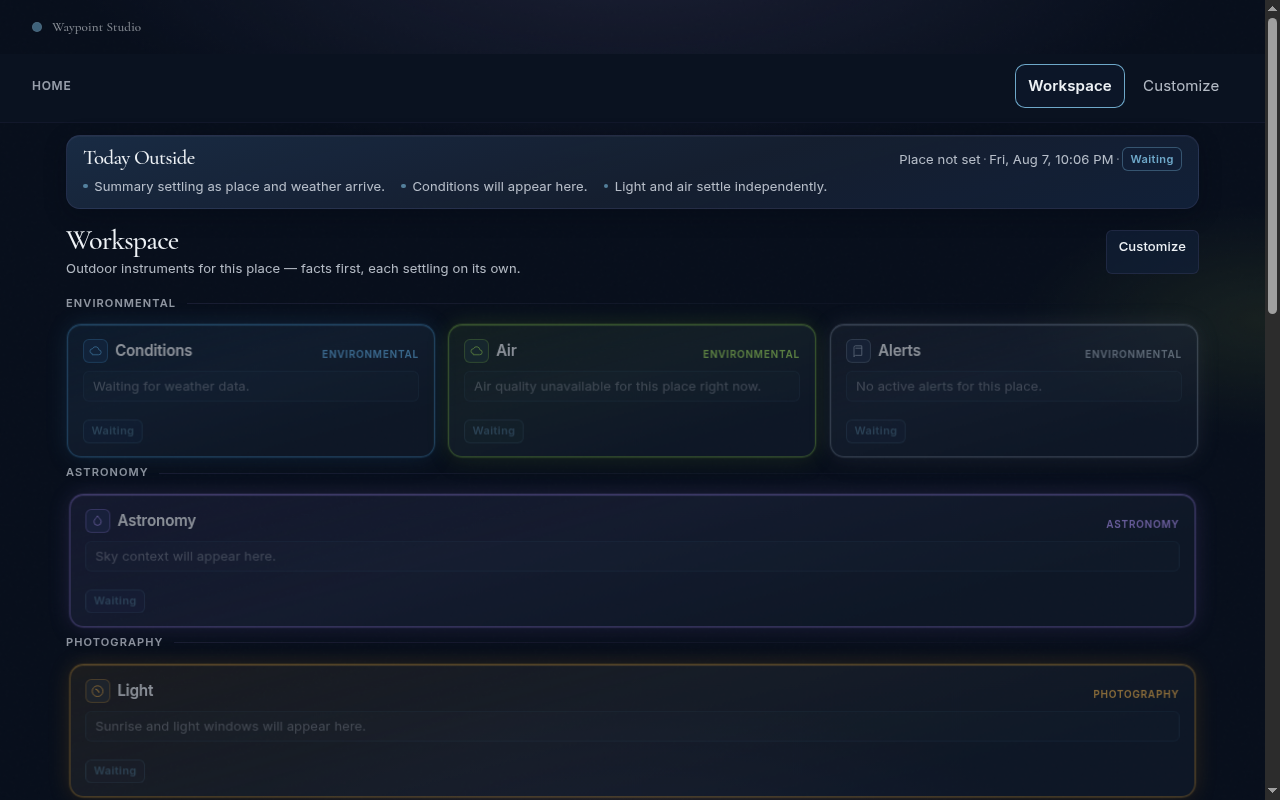
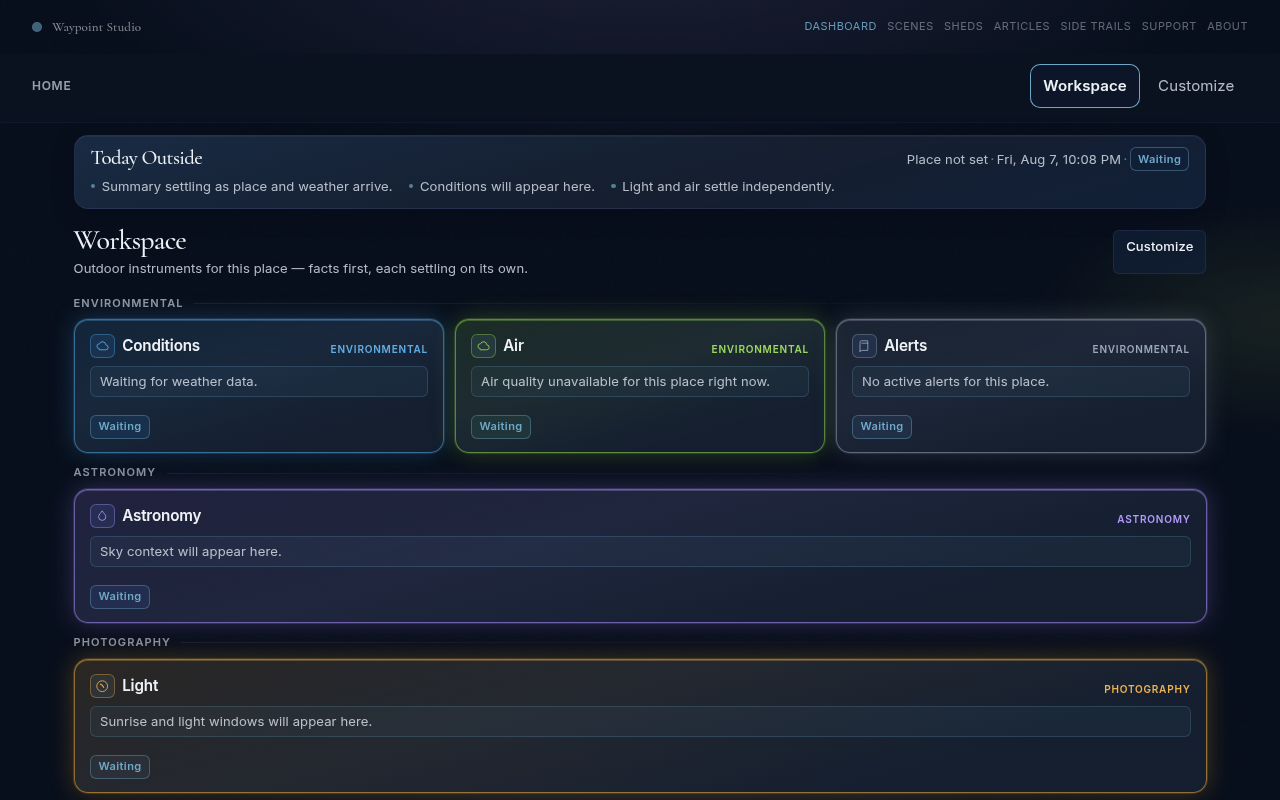
docs(nav): refresh Side Trails primary-nav review artifacts
Cache-bust Quiet Home shell assets, append playbook lessons, and replace
screenshots with captures that show Side Trails in quiet primary chrome.

diff --git a/apps/dashboard/index.html b/apps/dashboard/index.html
@@ -17,7 +17,7 @@
   <link rel="stylesheet" href="https://fonts.googleapis.com/css2?family=Cormorant+Garamond:ital,wght@0,400;0,500;1,400&family=Inter:wght@400;500;600&display=swap" media="print" onload="this.media='all'">
   <noscript><link rel="stylesheet" href="https://fonts.googleapis.com/css2?family=Cormorant+Garamond:ital,wght@0,400;0,500;1,400&family=Inter:wght@400;500;600&display=swap"></noscript>
   <link rel="stylesheet" href="../../design-system/css/wds.css?v=dash-tile-layout-1">
-  <link rel="stylesheet" href="../../design-system/css/wds-app-shell.css?v=dash-tile-layout-1">
+  <link rel="stylesheet" href="../../design-system/css/wds-app-shell.css?v=side-trails-nav-1">
   <link rel="stylesheet" href="../../design-system/css/wds-dashboard-rebuild.css?v=dash-tile-layout-1">
   <style>
     #wds-content-engine { min-height: 70vh; }
@@ -56,7 +56,7 @@
   </script>
   <script src="../../design-system/js/wds-build.js?v=local"></script>
   <!-- Nav/shell modules load via wds.js — do not duplicate (double-bind risk). -->
-  <script src="../../design-system/js/wds.js?v=dash-tile-layout-1" defer></script>
+  <script src="../../design-system/js/wds.js?v=side-trails-nav-1" defer></script>
   <script src="js/home-boot.js?v=dash-tile-layout-1" defer></script>
 </body>
 </html>

diff --git a/index.html b/index.html
@@ -25,7 +25,7 @@
   <link rel="stylesheet" href="https://fonts.googleapis.com/css2?family=Cormorant+Garamond:ital,wght@0,400;0,500;1,400&family=Inter:wght@400;500;600&display=swap" media="print" onload="this.media='all'">
   <noscript><link rel="stylesheet" href="https://fonts.googleapis.com/css2?family=Cormorant+Garamond:ital,wght@0,400;0,500;1,400&family=Inter:wght@400;500;600&display=swap"></noscript>
   <link rel="stylesheet" href="design-system/css/wds.css?v=dash-tile-layout-1">
-  <link rel="stylesheet" href="design-system/css/wds-app-shell.css?v=dash-tile-layout-1">
+  <link rel="stylesheet" href="design-system/css/wds-app-shell.css?v=side-trails-nav-1">
   <link rel="stylesheet" href="design-system/css/wds-dashboard-rebuild.css?v=dash-tile-layout-1">
   <style>
     #wds-content-engine { min-height: 70vh; }
@@ -64,7 +64,7 @@
   </script>
   <script src="design-system/js/wds-build.js?v=local"></script>
   <!-- Nav/shell modules load via wds.js — do not duplicate (double-bind risk). -->
-  <script src="design-system/js/wds.js?v=dash-tile-layout-1" defer></script>
+  <script src="design-system/js/wds.js?v=side-trails-nav-1" defer></script>
   <script src="apps/dashboard/js/home-boot.js?v=dash-tile-layout-1" defer></script>
 </body>
 </html>

diff --git a/docs/ENGINEERING-PLAYBOOK.md b/docs/ENGINEERING-PLAYBOOK.md
@@ -850,3 +850,13 @@ captures; verdict unchanged (**READY TO SHIP**, no blockers).
 5. **Bust Home HTML asset queries** when Rebuild CSS/JS layout contracts change
    (`dash-tile-layout-1`), then verify live Pages `build-info` + cache-bust URL.
 
+
+### 2026-08-07 — Side Trails primary / global navigation
+
+**Branch:** `feature/side-trails-primary-nav`  
+**Report:** `docs/product/side-trails-primary-nav-owner-review.md`
+
+1. **Config listing ≠ delivery.** `studioPrimaryNav` already named Side Trails while Quiet Home hid the entire primary row — audit the rendered shell, not only the registry.
+2. **Apps-era `data-shell-depth` breaks top-level routes.** Encoding that maps depth `1` → `../../` assumes `/apps/*`. Forcing `0` on `/articles/` and `/side-trails/` made peer links resolve under the current directory. Prefer pathname segment depth + site-root absolute primary hrefs.
+3. **Quiet chrome can keep Explore hidden and still expose architecture nav.** Hiding the launcher is not the same as hiding Dashboard · … · Side Trails · Support · About.
+4. **Coordinate homepage section work separately** from global nav so parallel agents do not fight over `studio-home.js`.
